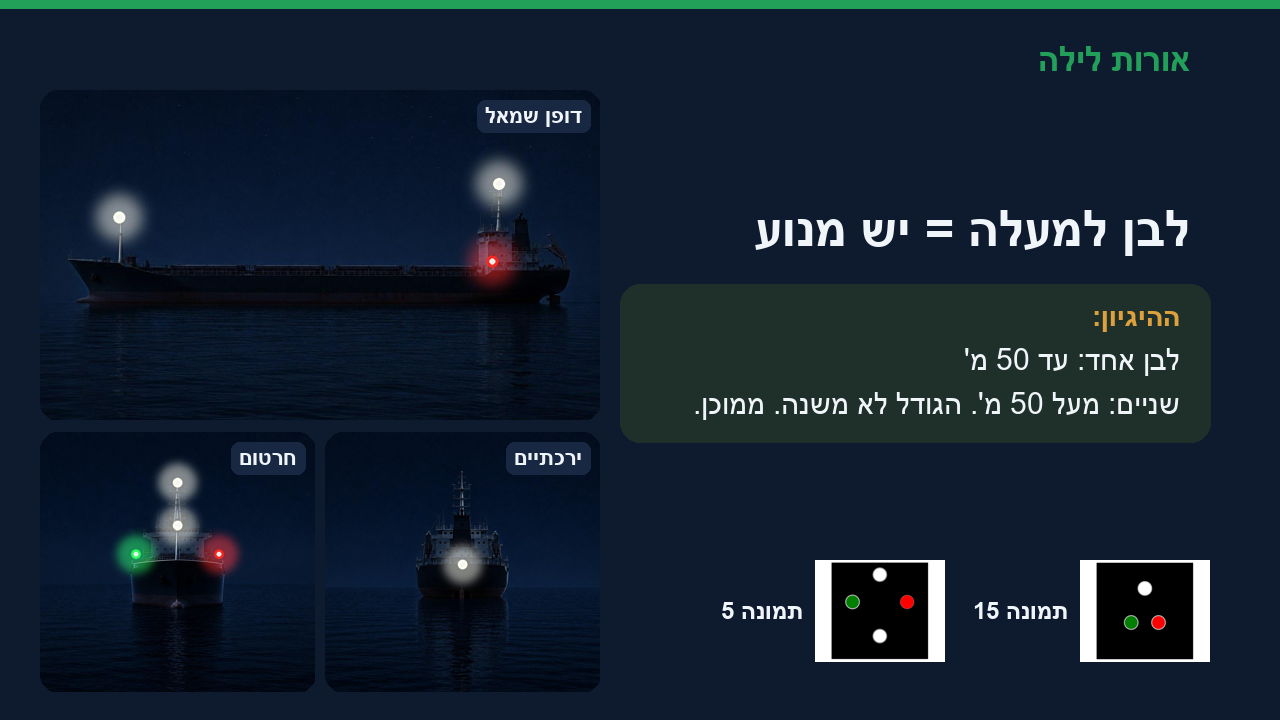
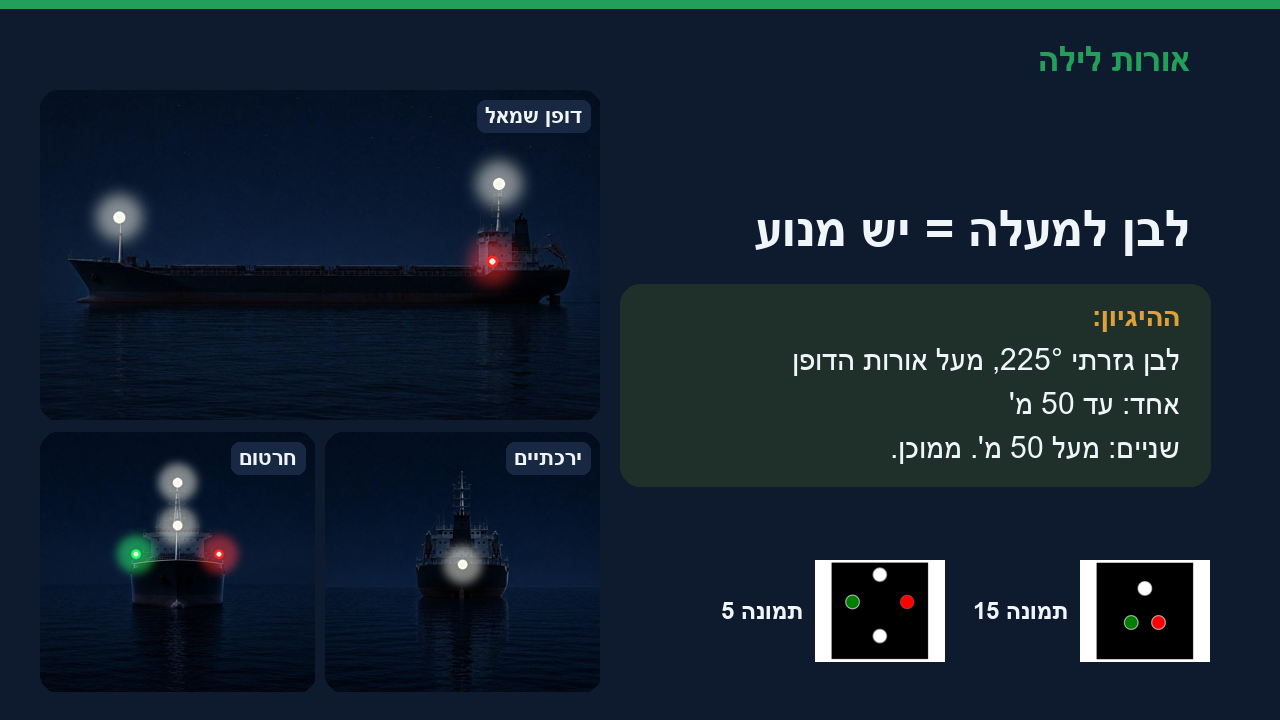
l12 אורות לילה: Alex's VO edit, 225° masthead sector + real boat on sectors card, sail under engine, flags H/A, IALA as one word, question scenes + 3s pause (_q segments)

Changed region(s): [[0.5312, 0.55, 0.9375, 0.5806], [0.625, 0.4583, 0.9062, 0.5194], [0.6875, 0.6111, 0.9375, 0.6417]]

diff --git a/lessons/l12/sources/cards_lights.py b/lessons/l12/sources/cards_lights.py
@@ -8,10 +8,10 @@ OUT = os.path.join(ROOT, "lessons", "l12", "cards", "אורות לילה")
 SIGNS = os.path.join(ROOT, "media", "signs")
 NIGHT = os.path.join(ROOT, "media", "vessels", "night")
 VESS = {"title": "power_big", "s_groups": "power_big", "s_headon": "power_big_bow", "s_stern": "power_big_stern",
-  "s_method": "power_small", "s_white": "power_big", "s_sail": "sail", "s_sail_opt": "sail_optional", "s_pilot": "pilot", "s_fish": "trawler",
+  "s_method": "power_small", "s_white": "power_big", "s_sail": [("sail_port", "מפרש: רק אור דופן"), ("sail_motor_port", "מנוע: לבן באמצע התורן"), ("sail_motor_bow", "מנוע, מהחרטום")], "s_sail_opt": "sail_optional", "s_pilot": "pilot", "s_fish": "trawler",
   "s_rwr": "ram", "s_diamonds": "dredge", "s_divers": "divers", "s_draft": "draft", "s_mines": "mines_port",
   "s_nuc": "nuc", "s_aground": "aground", "s_anchor": "anchor_small", "s_anchor50": "anchor_big", "s_tow": "tow",
-  "s_tow200": "tow_long", "s_yellow": "tow_stern", "s_flash": "hover", "s_ex1": "tow_stern", "s_ex2": "pilot_port"}
+  "s_tow200": "tow_long", "s_yellow": "tow_stern", "s_flash": "hover", "s_ex1_q": "scene_ex1", "s_ex1": "scene_ex1", "s_ex2_q": "scene_ex2", "s_ex2": "scene_ex2"}
 W, H = 1280, 720
 BG, BAR, PANEL, TXT, ORANGE, BLUE, LOGIC = "#0E1A2D", "#22A05A", "#182842", "#F0F5FA", "#DCA03C", "#5A96DC", "#1F2F2A"
 F = r"C:\Windows\Fonts\arialbd.ttf"
@@ -21,20 +21,20 @@ he = lambda t: get_display(t)
 
 CARDS = {
  "title":     ("אורות לילה", "רשיון סירת מנוע · מבחן תאוריה", "לא זוכרים תמונות בעל פה. מבינים את התמונה.", [5]),
- "s_groups":  ("שלוש קבוצות אורות", None, "ניווט: לאן הוא מפליג | גודל (לבן למעלה): יש מנוע | משפחה (360°): מי הוא", [15]),
- "s_sectors": ("אורות ניווט גזרתיים", None, "ירוק ימין, אדום שמאל: 112.5° כל אחד | לבן ירכתיים: 135°", "SECTORS"),
+ "s_groups":  ("שלוש קבוצות אורות", None, "ניווט: לאן הוא מפליג | גודל: לבן גזרתי 225° מעל אורות הדופן = יש מנוע | משפחה (360°): מי הוא", [15]),
+ "s_sectors": ("אורות ניווט גזרתיים", None, "ירוק ימין, אדום שמאל: 112.5° כל אחד | לבן ירכתיים: 135° | אור גודל: לבן 225°, מעל אורות הדופן", "SECTORS"),
  "s_headon":  ("אדום וירוק יחד", None, "הוא בא ישר מולך. קורס התנגשות.", [5]),
  "s_stern":   ("רק לבן מאחור", None, "מאחור כולם נראים אותו דבר. בלי צבע מעליו: ממוכן או מפרשית.", [27]),
  "s_method":  ("השיטה: קו מעל אורות הניווט", None, "מתחת לקו: איפה הוא יחסית אליי | מעל הקו: מי הוא | ואז: מי מפנה", [30]),
  "s_rules":   ("אותם חוקי פינוי", None, "ממוכן ← מפרש ← דייג ← מוגבל ← חסר שליטה", "LADDER"),
- "s_white":   ("לבן למעלה = יש מנוע", None, "לבן אחד: עד 50 מ' | שניים: מעל 50 מ'. הגודל לא משנה. ממוכן.", [15, 5]),
+ "s_white":   ("לבן למעלה = יש מנוע", None, "לבן גזרתי 225°, מעל אורות הדופן | אחד: עד 50 מ' | שניים: מעל 50 מ'. ממוכן.", [15, 5]),
  "s_sail":    ("אין לבן = אין מנוע", None, "רק אדום: דופן שמאל של מפרשית. מתניעה מנוע? מדליקה לבן.", [24]),
  "s_sail_opt":("אדום מעל ירוק בתורן = מפרשית", None, "אורות רשות ביאכטות גדולות. אצלנו כמעט לא רואים.", [14]),
- "s_pilot":   ("לבן מעל אדום = נתב", None, "כמו דגל H ביום. ממוכן לכל דבר. אין לו זכות עליך.", [46]),
+ "s_pilot":   ("לבן מעל אדום = נתב", None, "כמו דגל H ביום. ממוכן לכל דבר. אין לו זכות עליך.", [46, 100]),
  "s_fish":    ("צבע מעל לבן = דייג", None, "ירוק/לבן: מכמורתן | אדום/לבן: רשתות. מפנים לו. לבן למעלה? נתב.", [64, 55]),
  "s_rwr":     ("אדום · לבן · אדום = מוגבל", None, "כמו כדור-יהלום-כדור ביום. מפנים לו.", [35]),
  "s_diamonds":("נוסעים ליהלומים", None, "שני ירוקים: עוברים | שני אדומים: לא עוברים. אדום = אזהרה.", [50]),
- "s_divers":  ("אדום·לבן·אדום בלי ניווט", None, "עומד ומוגבל: ספינת אם לצוללנים. מתרחקים 200 מ'.", [70]),
+ "s_divers":  ("אדום·לבן·אדום בלי ניווט", None, "עומד ומוגבל: ספינת אם לצוללנים. ביום: דגל A. מתרחקים 200 מטר.", [70, 98]),
  "s_draft":   ("שלושה אדומים = מוגבל בשוקע", None, "ביום: חבית. מפנים. עוברים מאחוריו.", [25]),
  "s_mines":   ("שלושה ירוקים = שולת מוקשים", None, "מתרחקים.", [56]),
  "s_nuc":     ("שני אדומים + ניווט = חסר שליטה", None, "עושה דרכו במים, נסחף. אין לבן, אין מנוע.", [33]),
@@ -45,8 +45,10 @@ CARDS = {
  "s_tow200":  ("גוררת: עד 200 מ' ומעל 200 מ'", None, "משך עד 200 מ': שני לבנים בקו אחד | מעל 200 מ': שלושה", []),
  "s_yellow":  ("צהוב מאחור = גוררת", None, "צהוב קבוע מעל אור הירכתיים.", [17]),
  "s_flash":   ("צהוב מהבהב = רחפת", None, "לא גוררת.", [16]),
- "s_port":    ("יציאה מהנמל", None, "יוצא: שמאל על הירוק, ימין על האדום | חוזר: הפוך", [74, 71]),
+ "s_port":    ("יציאה מהנמל", None, "שיטת IALA A: אירופה וישראל | יוצא: שמאל על הירוק, ימין על האדום | חוזר: הפוך | שיטת IALA B: אמריקה, הפוך", [74, 71]),
+ "s_ex1_q":   ("שאלה: צהוב מימין", None, "מימיני: צהוב מעל לבן. מה זה? מה עושים?", [17]),
  "s_ex1":     ("שאלה: צהוב מימין", None, "גוררת, מאחור. כבר חלפה. ממשיך בקורס ובמהירות.", [17]),
+ "s_ex2_q":   ("שאלה: נתב משמאל לחרטום", None, "משמאל לחרטום: לבן מעל אדום, ואדום למטה. מה עושים?", [46]),
  "s_ex2":     ("שאלה: נתב משמאל לחרטום", None, "דופן שמאל מול דופן שמאל. חולפים. אין סכנת התנגשות.", [46]),
  "s_exam":    ("טיפים למבחן", None, "קרא את כל התשובות | שלול | צייר: אתה, הוא, הדופן | כמות הלבנים מבלבלת", None),
  "s_sum":     ("סיכום: האלגוריתם", None, "יש או אין אורות ניווט | איפה הוא יחסית אליי | לבן למעלה = מנוע | צבעים = המשפחה | לפי החוקים: מי מפנה", None),
@@ -70,15 +72,22 @@ def sign(n, box):
 
 def sectors(c, d, x0, y0, w, h):
     d.rounded_rectangle((x0, y0, x0 + w, y0 + h), 24, fill="#000000")
-    cx, cy, r = x0 + w // 2, y0 + h // 2 + 10, min(w, h) // 2 - 40
+    cx, cy = x0 + w // 2, y0 + h // 2 + 6
+    R1, R2 = min(w, h) // 2 - 20, min(w, h) // 2 - 70      # outer ring = masthead 225, inner = side/stern
+    box = lambda r: (cx - r, cy - r, cx + r, cy + r)
     # heading up; PIL angles: 0=east, clockwise. Bow = -90.
-    d.pieslice((cx - r, cy - r, cx + r, cy + r), -90, -90 + 112.5, fill="#1E6B3A")
-    d.pieslice((cx - r, cy - r, cx + r, cy + r), -90 - 112.5, -90, fill="#7A2020")
-    d.pieslice((cx - r, cy - r, cx + r, cy + r), 22.5, 157.5, fill="#7A7A7A")
-    d.polygon([(cx, cy - 50), (cx + 18, cy + 30), (cx - 18, cy + 30)], fill=TXT)
-    rtext(d, cx + 95, cy - r + 60, "ירוק", font(26), TXT)
-    rtext(d, cx - 40, cy - r + 60, "אדום", font(26), TXT)
-    rtext(d, cx + 30, cy + r - 60, "לבן", font(26), TXT)
+    d.pieslice(box(R1), -90 - 112.5, -90 + 112.5, fill="#5E5E52")          # masthead white 225
+    d.pieslice(box(R1 - 26), 0, 360, fill="#000000")
+    d.pieslice(box(R2), -90, -90 + 112.5, fill="#1E6B3A")                  # green starboard 112.5
+    d.pieslice(box(R2), -90 - 112.5, -90, fill="#7A2020")                  # red port 112.5
+    d.pieslice(box(R2), 22.5, 157.5, fill="#7A7A7A")                       # stern white 135
+    boat = Image.open(os.path.join(ROOT, "media", "vessels", "speedboat.png")).convert("RGBA")
+    boat.thumbnail((130, 250)); c.paste(boat, (cx - boat.width // 2, cy - boat.height // 2), boat)
+    f = font(24)
+    rtext(d, cx + 150, cy - 95, "ירוק 112.5°", f, TXT)
+    rtext(d, cx - 40, cy - 95, "אדום 112.5°", f, TXT)
+    rtext(d, cx + 55, cy + 112, "לבן 135°", f, TXT)
+    rtext(d, cx + 75, y0 + 8, "אור גודל: לבן 225°", f, "#F0E6A0")
 
 def ladder(d, x0, y0, w):
     steps = ["ממוכן", "מפרש", "דייג", "מוגבל", "חסר שליטה"]
@@ -107,7 +116,7 @@ def make(sid, spec):
         fam = VESS[sid]
         def put(name, x, y, w, h, label=None):
             vi = Image.open(os.path.join(NIGHT, name + ".jpg")).convert("RGB")
-            if vi.width / vi.height > 1.6:      # wide tow scene: fit, keep both vessels
+            if vi.width / vi.height > 2.0:      # wide tow scene: fit, keep both vessels
                 s_ = w / vi.width; vi = vi.resize((w, int(vi.height * s_)))
                 bg = Image.new("RGB", (w, h), vi.getpixel((5, 5))); bg.paste(vi, (0, (h - vi.height) // 2)); vi = bg
             else:
@@ -119,7 +128,11 @@ def make(sid, spec):
                 f = font(22); t_ = he(label); tw = d.textlength(t_, font=f)
                 d.rounded_rectangle((x + w - tw - 26, y + 10, x + w - 10, y + 42), 8, fill=PANEL)
                 d.text((x + w - tw - 18, y + 13), t_, font=f, fill=TXT)
-        if os.path.exists(os.path.join(NIGHT, fam + "_bow.jpg")) or os.path.exists(os.path.join(NIGHT, fam + "_port.jpg")):
+        if isinstance(fam, list):
+            put(fam[0][0], 40, 90, 560, 330, fam[0][1])
+            put(fam[1][0], 40, 432, 275, 260, fam[1][1])
+            put(fam[2][0], 325, 432, 275, 260, fam[2][1])
+        elif os.path.exists(os.path.join(NIGHT, fam + "_bow.jpg")) or os.path.exists(os.path.join(NIGHT, fam + "_port.jpg")):
             put(fam + "_port", 40, 90, 560, 330, "דופן שמאל")
             if os.path.exists(os.path.join(NIGHT, fam + "_bow.jpg")):
                 put(fam + "_bow", 40, 432, 275, 260, "חרטום")

diff --git a/media/vessels/night/compose_night.py b/media/vessels/night/compose_night.py
@@ -90,6 +90,13 @@ V = {
  # towing, tow > 200 m: 3 masthead in a vertical line
  "tow_long_bow":  ("tug_bow",      stack(49.5, [13, 17.5, 22], W_) + [(37, 50, G_), (62, 50, R_)]),
  "tow_long_port": ("tuglong_port", stack(8.3, [38, 43, 48], W_) + [(6, 53, R_), (70.5, 54.5, R_)]),
+ # sailing vessel under engine: white masthead (225 deg sector) half-way up the mast + sidelights
+ "sail_motor_bow":   ("sail_bow",   [(50, 40, W_), (47, 72, G_), (53, 72, R_)]),
+ "sail_motor_port":  ("sail_port",  [(48.6, 40, W_), (31.5, 72, R_)]),
+ "sail_motor_stern": ("sail_stern", [(49.5, 72, W_)]),
+ # lesson question scenes (drone view behind my boat)
+ "scene_ex1": ("scene_ex1", [(65.3, 30.5, Y_), (65.3, 33.5, W_), (72, 46, W_), (47.5, 70, W_)]),   # tug on my starboard, seen from astern
+ "scene_ex2": ("scene_ex2", [(27, 22.5, W_), (27, 26.5, R_), (30.5, 37.5, R_), (52.8, 68, W_)]),  # pilot on my port, port side to port side
  # hovercraft: flashing yellow
  "hover_bow":   ("hover_bow",   [(49.5, 24.5, Y_), (49.5, 29, W_), (24, 52, G_), (75, 52, R_)]),
  "hover_port":  ("hover_port",  [(37, 29.5, Y_), (37, 34, W_), (24, 45, R_)]),
@@ -100,7 +107,7 @@ if __name__ == "__main__":
     for name, (base, lights) in V.items():
         src = os.path.join(HERE, "src", base + ".jpg")
         W, H = Image.open(src).size
-        r = max(9, int(W * (0.011 if base.endswith("_port") else 0.014)))
+        r = max(8, int(W * (0.008 if base.startswith("scene") else 0.011 if base.endswith("_port") else 0.014)))
         spec = ";".join(f"{int(x * W / 100)},{int(y * H / 100)},{c},{r}" for x, y, c in lights)
         lightup(src, os.path.join(OUT, name + ".jpg"), spec)
     print(len(V), "images ->", OUT)

diff --git a/tools/lesson/assemble.py b/tools/lesson/assemble.py
@@ -83,7 +83,7 @@ def main():
             if not os.path.isfile(pth):
                 sys.exit(f"חסר {what} ל-{sid}: {pth}")
         t = os.path.join(wrk, f"{sid}_t.mp3"); trim(raw, t)
-        p = os.path.join(wrk, f"{sid}_p.mp3"); pad(t, p, 0.5)
+        p = os.path.join(wrk, f"{sid}_p.mp3"); pad(t, p, 3.0 if sid.endswith("_q") else 0.5)  # "_q" = question posed: 3s to think (Alex)
         o = os.path.join(wrk, f"{idx:02d}_{sid}.mp4")
         clip_card(o, png, p)
         segfiles.append(o)

diff --git a/media/vessels/README.md b/media/vessels/README.md
@@ -34,3 +34,4 @@
 - `night/src/*.jpg` = בסיסים **בלי אורות** (gpt_image_2_5 ב-Higgsfield, "ALL lights OFF"). ה-AI לא מצייר אורות, כי הוא טועה בהם.
 - האורות מצוירים בקוד: `python media/vessels/night/compose_night.py` (מיקומים באחוזים לכל בסיס, `lightup.py` מצייר נקודה זוהרת). לתיקון אור, מתקנים את הקואורדינטה ב-`V` ומריצים שוב.
 - קבצים: `<משפחה>_<bow|port|stern>.jpg` לכל משפחה (שולת מוקשים: צד בלבד, לבקשת אלכס). משפחות: power_big, power_small, sail (+sail_optional), pilot, trawler, netfish, ram, dredge (מוגבל עם מכשול: 2 אדומים בצד החסום, 2 ירוקים בצד המעבר), divers (ספינת צוללנים, עומדת, בלי אורות ניווט), draft, nuc, aground, anchor_small (עד 50 מ'), anchor_big (מעל 50 מ'), tow (משך עד 200 מ', 2 לבנים), tow_long (מעל 200 מ', 3 לבנים), hover, mines_port.
+- נוספו (2026-10-06): `sail_motor_*` (מפרשית תחת מנוע: לבן גזרתי באמצע התורן), `scene_ex1`/`scene_ex2` (סצנות רחפן של שאלות השיעור: הסירה שלי + הכלי השני בתנועה, עם האורות הנכונים).
